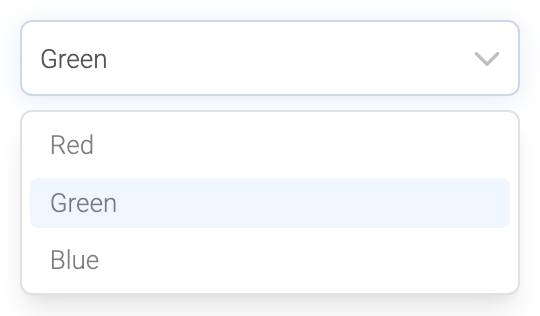
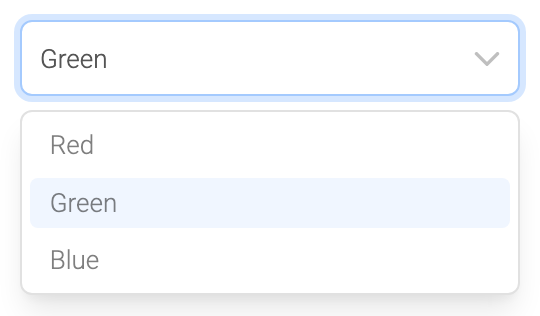
Use transition speed for temba-select focus

Changed region(s): [[0.0, 0.0285, 0.9778, 0.3418]]

diff --git a/src/select/Select.ts b/src/select/Select.ts
@@ -29,7 +29,7 @@ export class Select extends FormElement {
     return css`
       :host {
         font-family: var(--font-family);
-        transition: all ease-in-out 200ms;
+        transition: all ease-in-out var(--transition-speed);
         display: inline;
         line-height: normal;
         outline: none;
@@ -83,7 +83,7 @@ export class Select extends FormElement {
         flex-wrap: nowrap;
         align-items: center;
         border: 1px solid var(--color-widget-border);
-        transition: all ease-in-out 200ms;
+        transition: all ease-in-out var(--transition-speed);
         cursor: pointer;
         border-radius: var(--curvature-widget);
         background: var(--color-widget-bg);
@@ -315,7 +315,7 @@ export class Select extends FormElement {
 
       .info-text {
         opacity: 1;
-        transition: margin 200ms ease-in-out;
+        transition: margin var(--transition-speed) ease-in-out;
         margin-bottom: 16px;
         margin-top: -1em;
         padding: 0.5em 1em;
